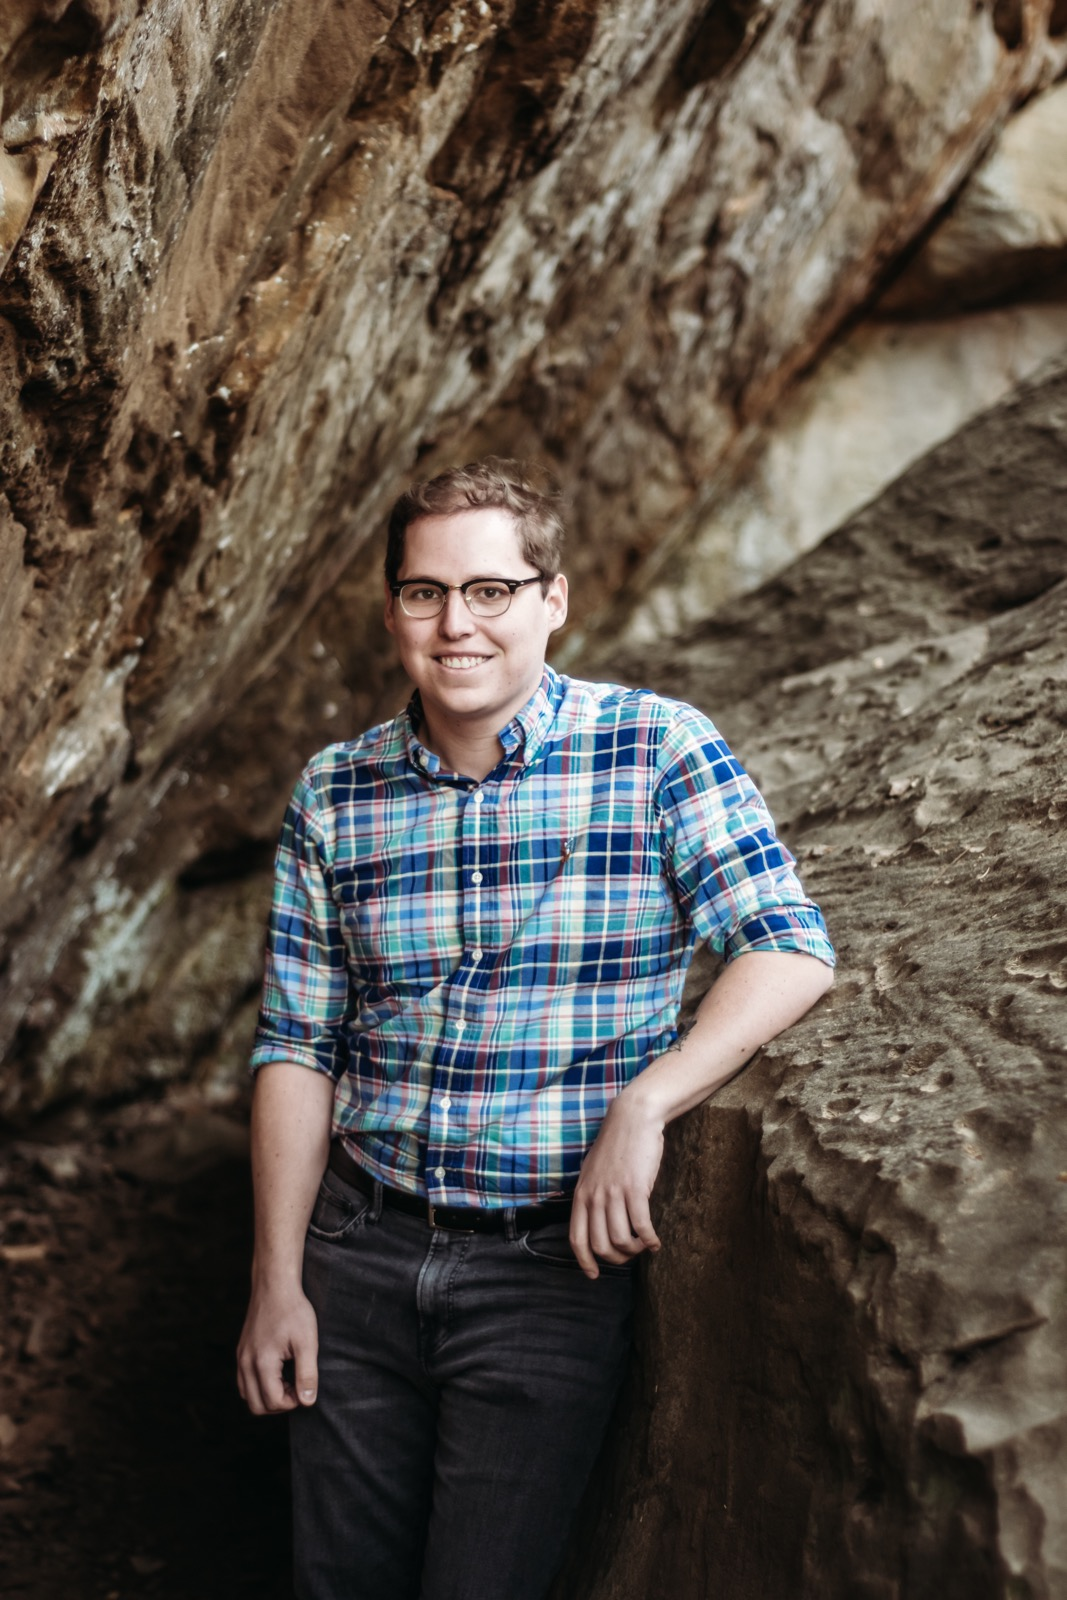
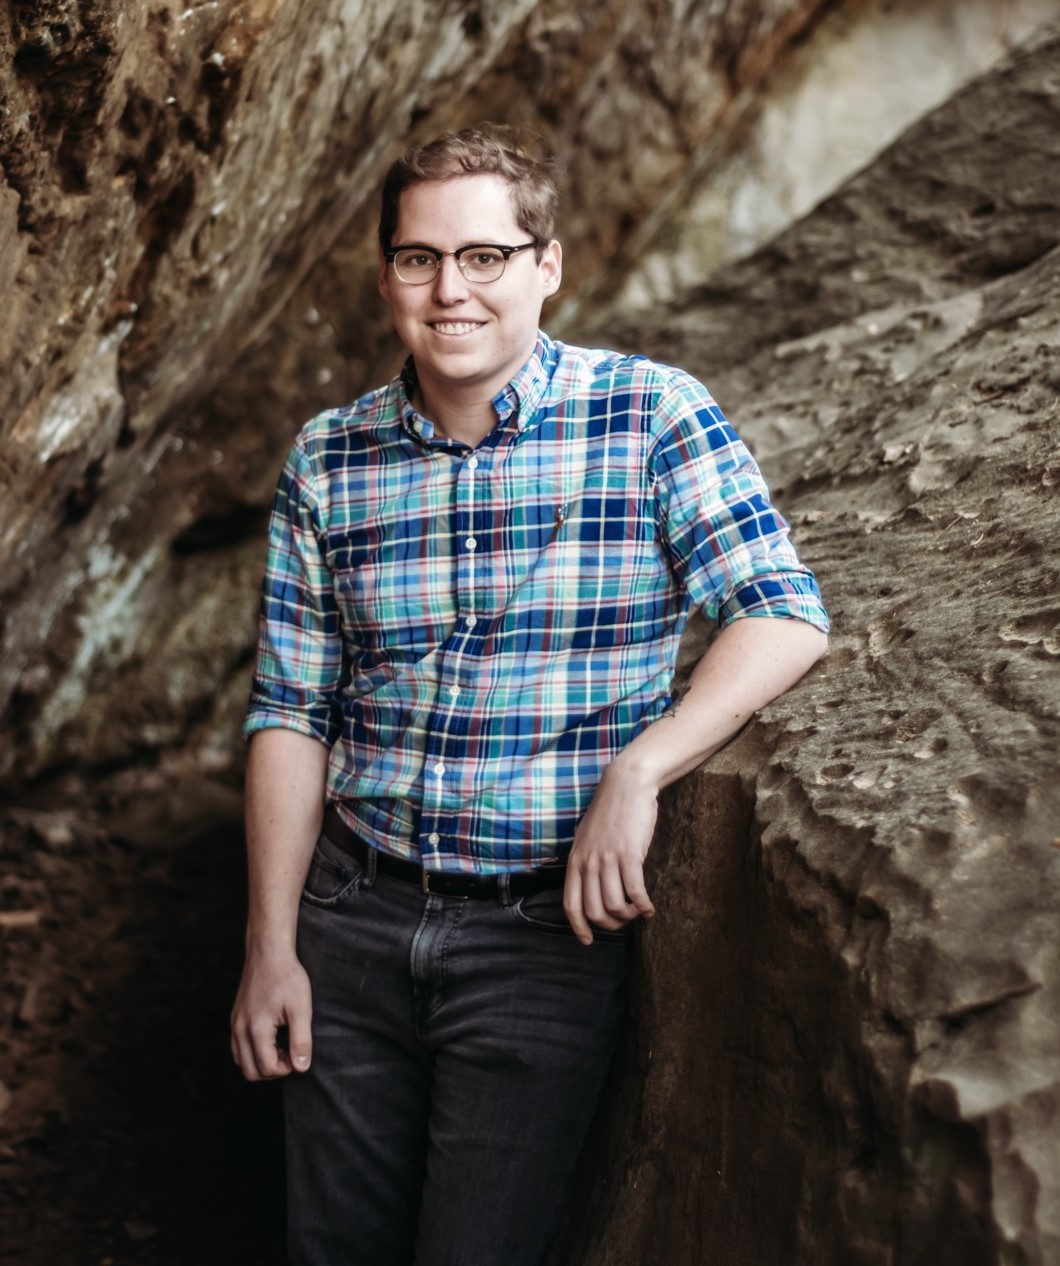
more info and styling

diff --git a/index.html b/index.html
@@ -6,12 +6,15 @@
   <title>Russell Koons Web Developer</title>
   <meta name="viewport" content="width=device-width, initial-scale=1">
   <link rel="stylesheet" type="text/css" media="screen" href="index.css">
+  <link rel="stylesheet" href="https://cdn.rawgit.com/konpa/devicon/df6431e323547add1b4cf45992913f15286456d3/devicon.min.css">
   <script src="index.js"></script>
 </head>
 <body>
-  <header role="banner">
-    <div>
-      <h2>Russell Koons</h2>
+  <header role="banner" class="container">
+    <div class="inner-nav">
+      <div>
+        <h2>Russell Koons</h2>
+      </div>
       <div id="links">
         <a href="#bio">About</a>
         <a href="#projects">Projects</a>
@@ -20,35 +23,130 @@
     </div>
   </header>
   <main>
-    <section id="bio">
-      <h1>Russell Koons Web Developer</h1>
-      <img src="assets/russellkoons.jpg" alt="Russell Koons" />
-      <p>My name is Russell Koons and I'm a full stack developer based in Atlanta, Georgia.</p>
-      <p>I'm a recent graduate of the Thinkful Full Stack Flex program with a passion for building exciting and interesting web apps. As a new developer I find great satisfaction in being able to bring my ideas to life on the screen.</p>
-      <p>When I'm not working you can find me reading a book, at a concert, or just spending time in the great outdoors.</p>
+    <section id="bio" class="page">
+      <div class="inner">
+        <div>
+          <img src="assets/russellkoons.jpg" alt="Russell Koons" />
+        </div>
+        <div>
+          <p>My name is <span>Russell Koons</span> and I'm a full stack developer based in Atlanta, Georgia.</p>
+          <p>I'm a recent graduate of the Thinkful Full Stack Flex program with a passion for building exciting and interesting web apps. As a new developer I find great satisfaction in being able to bring my ideas to life on the screen.</p>
+          <p>When I'm not working you can find me reading a book, at a concert, or just spending time in the great outdoors.</p>
+          <a href="mailto:rkoons@gmail.com">Get in touch!</a>
+        </div>
+      </div>  
     </section>
-    <section id="projects">
+    <section id="projects" class="page">
       <h2>My Projects</h2>
       <div>
         <h3>Plantry</h3>
         <img src="assets/plantry.png" alt="Plantry" />
+        <div>
+          <a href="https://plantry-client.herokuapp.com">Live App</a> | <a href="https://github.com/russellkoons/plantry-client">Github Repo</a>
+        </div>
         <p>An app to streamline meal planning and make quick grocery lists based on your plans.</p>
+        <p>Built with:</p>
+        <ul class="skills">
+          <li>
+            <i class="devicon-react-original colored"></i>
+            <aside>React</aside>
+          </li>
+          <li>
+            <i class="devicon-nodejs-plain colored"></i>
+            <aside>Node.js</aside>
+          </li>
+          <li>
+            <i class="devicon-express-original colored"></i>
+            <aside>Express</aside>
+          </li>
+          <li>
+            <i class="devicon-postgresql-plain colored"></i>
+            <aside>PostgreSQL</aside>
+          </li>
+          <li>
+            <i class="devicon-html5-plain colored"></i>
+            <aside>HTML5</aside>
+          </li>
+          <li>
+            <i class="devicon-css3-plain colored"></i>
+            <aside>CSS</aside>
+          </li>
+          <li>
+            <i class="devicon-javascript-plain colored"></i>
+            <aside>JavaScript</aside>
+          </li>
+        </ul>  
       </div>
       <div>
         <h3>trainingspotter</h3>
         <img src="assets/trainingspotter.png" alt="trainingspotter" />
+        <div>
+          <a href="https://trainingspotter.herokuapp.com">Live App</a> | <a href="https://github.com/russellkoons/trainingspotter">Github Repo</a>
+        </div>
         <p>Keep track of your weightlifting routines.</p>
+        <p>Built with:</p>
+        <ul class="skills">
+          <li>
+            <i class="devicon-nodejs-plain colored"></i>
+            <aside>Node.js</aside>
+          </li>
+          <li>
+            <i class="devicon-express-original colored"></i>
+            <aside>Express</aside>
+          </li>
+          <li>
+            <i class="devicon-mongodb-plain colored"></i>
+            <aside>mongoDB</aside>
+          </li>
+          <li>
+            <i class="devicon-html5-plain colored"></i>
+            <aside>HTML5</aside>
+          </li>
+          <li>
+            <i class="devicon-css3-plain colored"></i>
+            <aside>CSS</aside>
+          </li>
+          <li>
+            <i class="devicon-javascript-plain colored"></i>
+            <aside>JavaScript</aside>
+          </li>
+          <li>
+            <i class="devicon-jquery-plain colored"></i>
+            <aside>jQuery</aside>
+          </li>
+        </ul>  
       </div>
       <div>
         <h3>genre-ha!</h3>
         <img src="assets/genre-ha.png" alt="genre-ha!" />
+        <div>
+          <a href="https://russellkoons.github.io/genre-ha">Live App</a> | <a href="https://github.com/russellkoons/genre-ha">Github Repo</a>
+        </div>
         <p>Discover new artists from your favorite music genres.</p>
+        <p>Built with:</p>
+        <ul class="skills">
+          <li>
+            <i class="devicon-html5-plain colored"></i>
+            <aside>HTML5</aside>
+          </li>
+          <li>
+            <i class="devicon-css3-plain colored"></i>
+            <aside>CSS</aside>
+          </li>
+          <li>
+            <i class="devicon-javascript-plain colored"></i>
+            <aside>JavaScript</aside>
+          </li>
+          <li>
+            <i class="devicon-jquery-plain colored"></i>
+            <aside>jQuery</aside>
+          </li>
+        </ul>
       </div>
     </section>
-    <section id="contact">
-      <h2>Contact Me!</h2>
+    <section id="contact" class="page">
       <p>Email: <a href="mailto:rkoons@gmail.com">rkoons@gmail.com</a></p>
-      <p>Call: (678) 860-0937</p>
+      <p>Call: <a href="tel:6788600937">(678) 860-0937</a></p>
     </section>
   </main>
   <footer role="contentinfo">

diff --git a/index.css b/index.css
@@ -1,0 +1,91 @@
+body {
+  background-color: white;
+}
+
+.container {
+  position: fixed;
+  left: 0;
+  right: 0;
+  top: 0;
+  z-index: 10;
+  padding: 10px;
+  background: white;
+  max-height: 65px;
+}
+
+.inner-nav {
+  max-width: 900px;
+  margin: auto;
+  display: flex;
+  justify-content: space-between;
+}
+
+span {
+  color: red;
+}
+
+#links {
+  width: 30%;
+  display: flex;
+  justify-content: space-between;
+}
+
+#links a {
+  color: black;
+  text-decoration: none;
+  transition: 0.3s;
+  font-size: 17px;
+  margin-top: 25px;
+}
+
+#links a:hover {
+  color: red;
+  font-size: 20px;
+}
+
+#projects {
+  background: grey;
+  position: sticky;
+  position: -webkit-sticky;
+  top: 0px;
+  text-align: center;
+}
+
+#bio {
+  position: sticky;
+  position: -webkit-sticky;
+  top: 95px;
+}
+
+ul {
+  display: flex;
+  margin: 10 0;
+}
+
+.skills li {
+  display: inline;
+  margin: 10px;
+  text-align: center;
+}
+
+img {
+  max-width: 75%;
+}
+
+.page {
+  margin: auto;
+  max-width: 900px;
+}
+
+.inner {
+  display: flex;
+  justify-content: space-between;
+}
+
+main {
+  margin-top: 95px;
+}
+
+footer {
+  text-align: center;
+}
